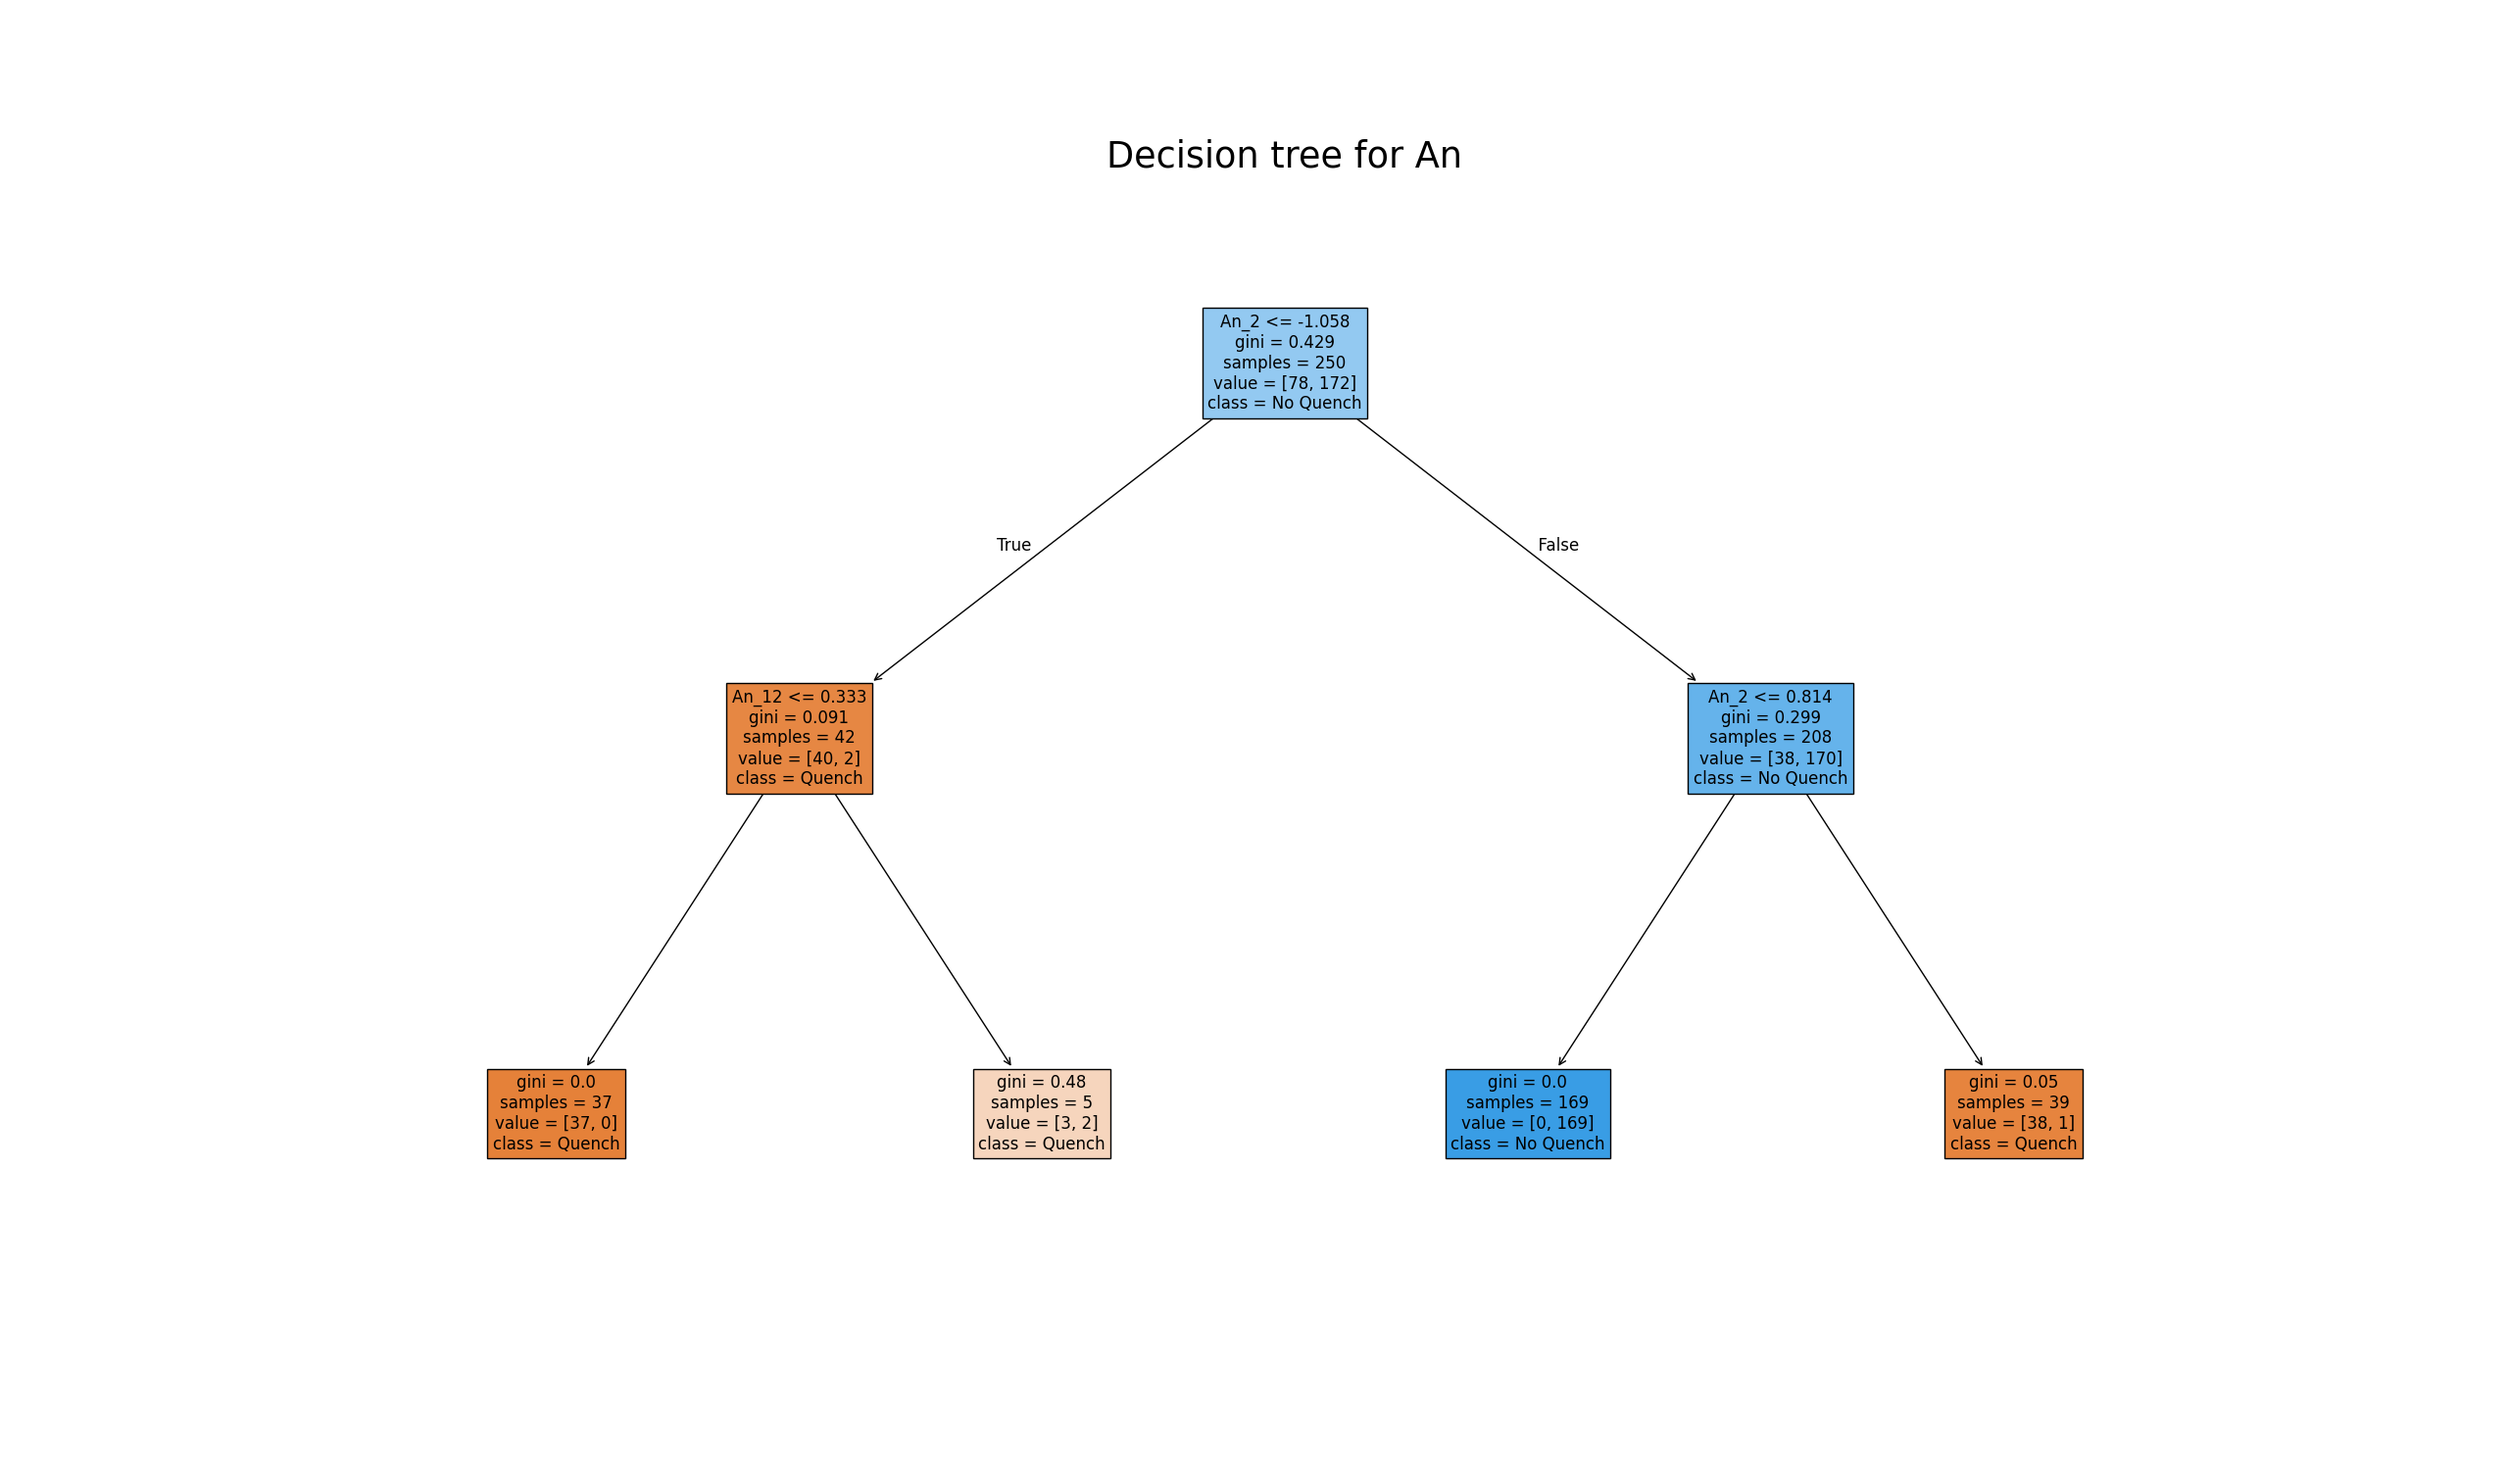
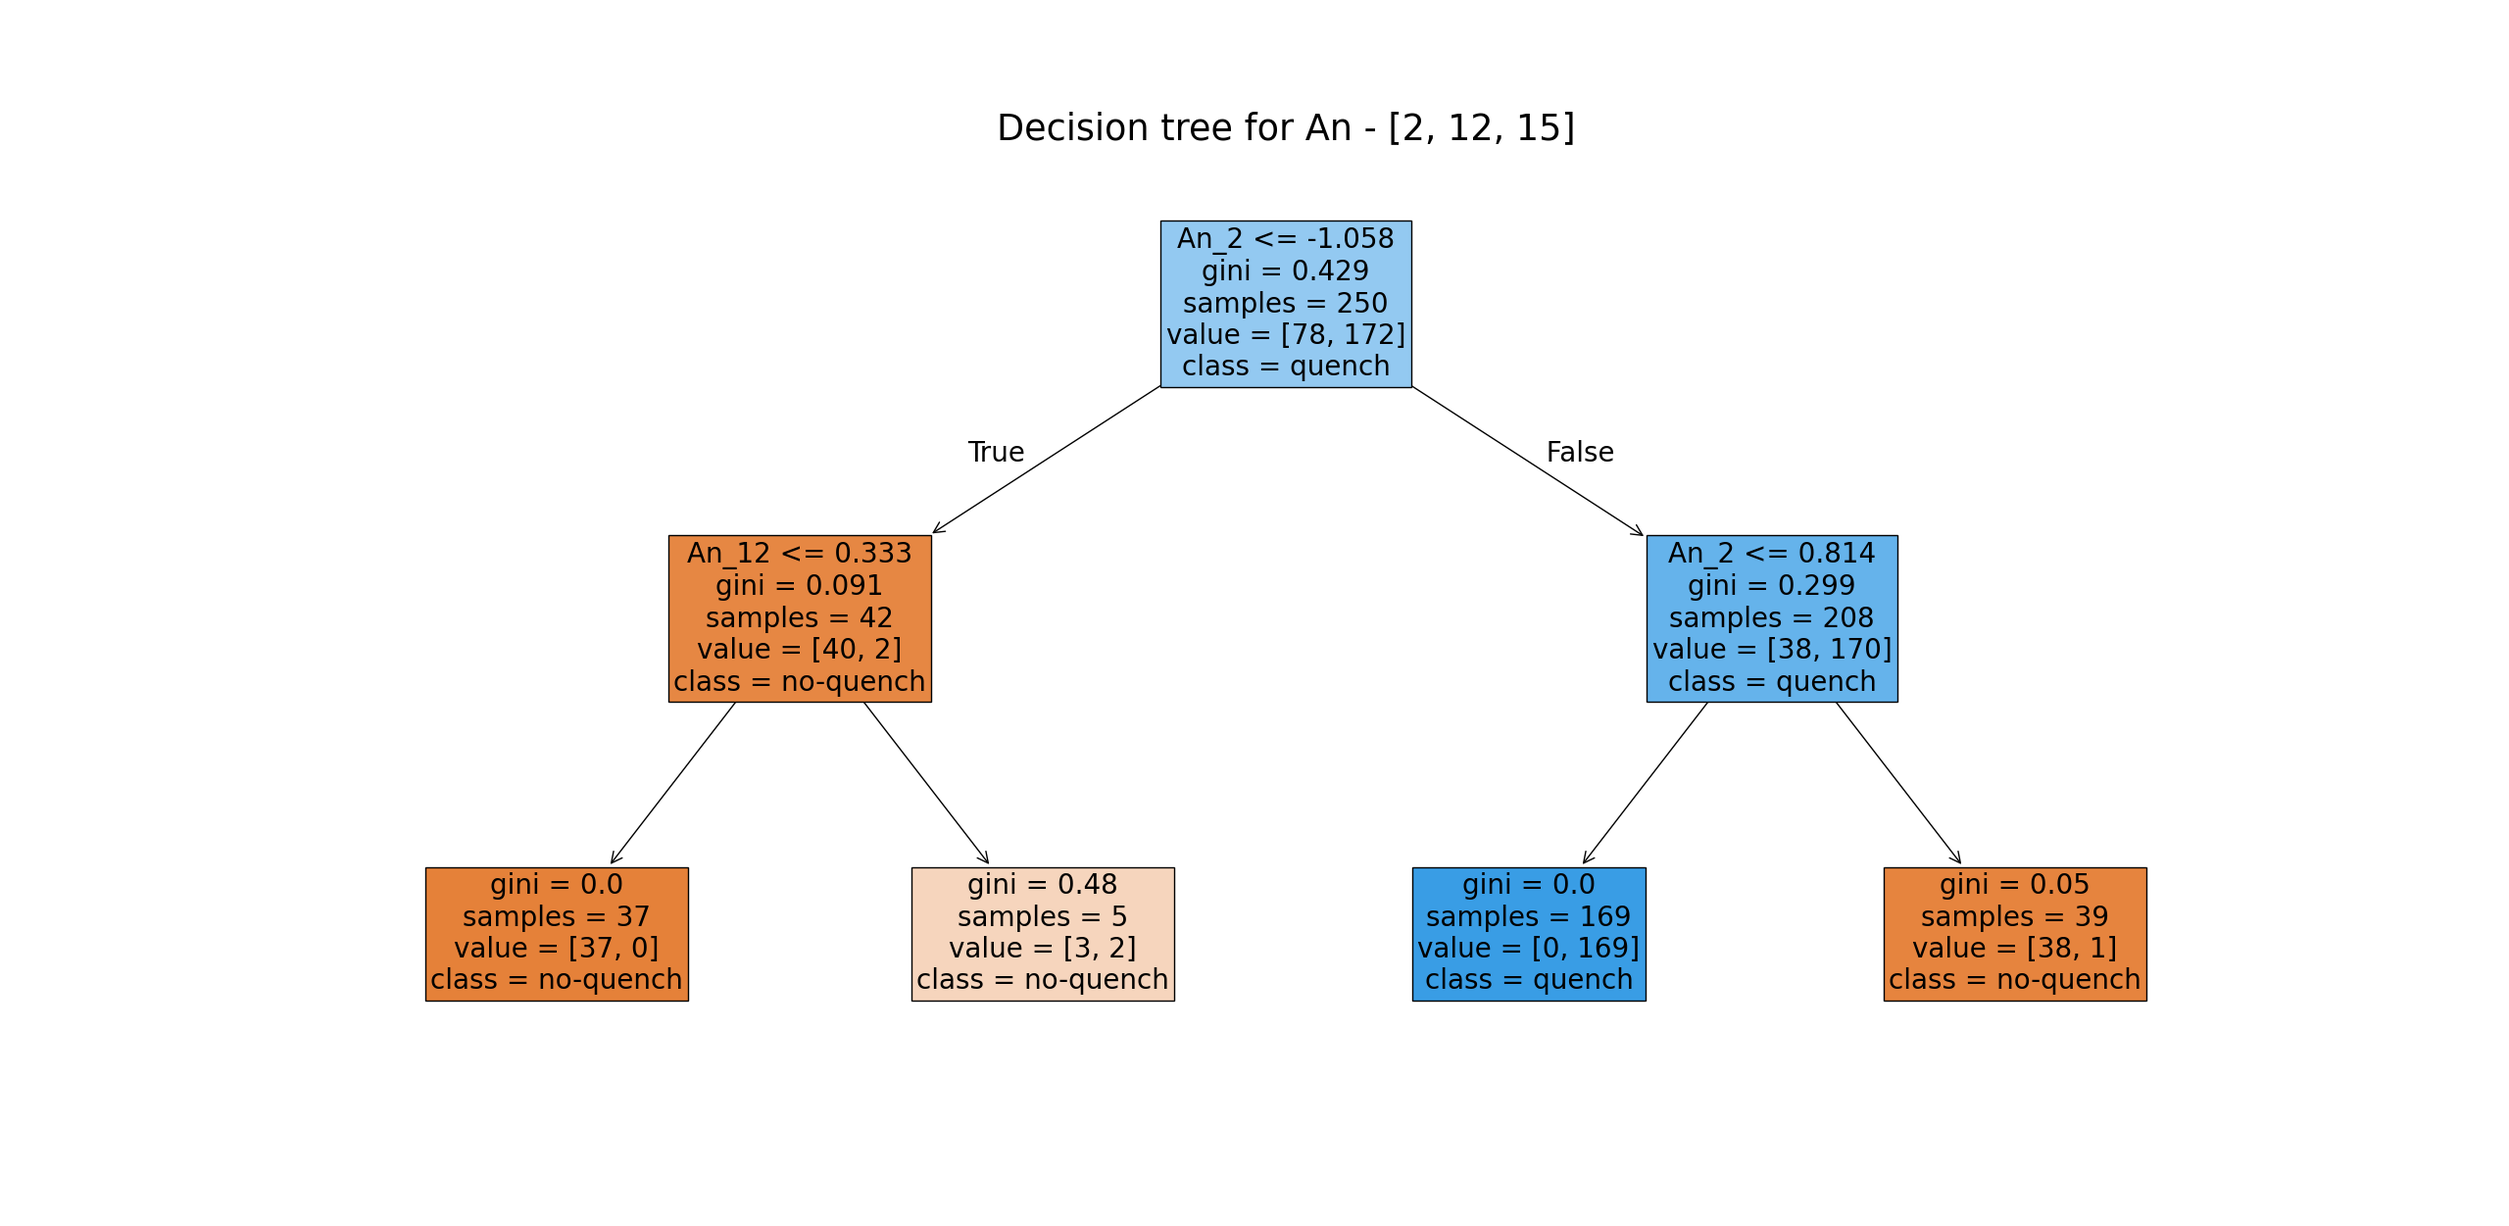
Changed the image for the decision tree as well as teh QRP chapter

diff --git a/src/qrp.tex b/src/qrp.tex
@@ -46,7 +46,7 @@ the main diagonal) that contain repeated information, e.g., harmonic number $1$ 
 information as harmonic number $3, 5, 7, \ldots$.
 \begin{figure}
 	\centering
-	\includegraphics[scale=.2]{img/An_corr_matrix.png}
+	\includegraphics[width=\linewidth]{img/An_corr_matrix.png}
 	\caption{The cross-correlation of the An harmonics} \label{fig:an-corr}
 \end{figure}
 Other than us noticing that the situation is definitely complex and doing feature extraction on this
@@ -69,7 +69,7 @@ should be performing at a high level.
 
 \begin{figure}
 	\centering
-	\includegraphics[scale=.2]{img/An_label_corr.png}
+	\includegraphics[width=\linewidth]{img/An_label_corr.png}
 	\caption{Label correlation for the An table} \label{fig:an-lcorr}
 \end{figure}
 
@@ -96,7 +96,7 @@ $15$ dimensions to be able to plot them we use a dimensionality reduction techni
 $\textsc{pca}$ (Principal Component Analysis).
 \begin{figure}[h!]
 	\centering
-	\includegraphics[scale=.2]{img/An_distribution.png}
+	\includegraphics[width=\linewidth]{img/An_distribution.png}
 	\caption{Data distribution for the An table after applying $\textsc{pca}$ dimensionality
 		reduction} \label{fig:an-dist}
 \end{figure}
@@ -113,7 +113,7 @@ portion of the data, and this difficulty will be reflected in the performance of
 will be introduced in this chapter.
 \begin{figure}[h!]
 	\centering
-	\includegraphics[scale=.2]{img/Bn_distribution.png}
+	\includegraphics[width=\linewidth]{img/Bn_distribution.png}
 	\caption{Data distribution for the Bn table after applying $\textsc{pca}$ dimensionality
 		reduction} \label{fig:bn-dist}
 \end{figure}
@@ -122,7 +122,7 @@ As we did for An we check the cross-correlation of the Bn table, and the results
 similar.
 \begin{figure}[h!]
 	\centering
-	\includegraphics[scale=.2]{img/Bn_corr_matrix.png}
+	\includegraphics[width=\linewidth]{img/Bn_corr_matrix.png}
 	\caption{The cross-correlation of the Bn harmonics} \label{fig:bn-corr}
 \end{figure}
 Possibly the biggest difference between \Cref{fig:an-corr} and \Cref{fig:bn-corr}, apart from the
@@ -135,7 +135,7 @@ harmonic have a good enough correlation with the solution, but despite this, the
 models built on Bn suffered.
 \begin{figure}
 	\centering
-	\includegraphics[scale=.2]{img/Bn_label_corr.png}
+	\includegraphics[width=\linewidth]{img/Bn_label_corr.png}
 	\caption{Label correlation for the Bn table} \label{fig:bn-lcorr}
 \end{figure}
 
@@ -150,7 +150,7 @@ sections, it consistently falls short of the An table, and that is most likely d
 introduction of the information carried by Bn.
 \begin{figure}[h!]
 	\centering
-	\includegraphics[scale=.2]{img/Cnmod_corr_matrix.png}
+	\includegraphics[width=\linewidth]{img/Cnmod_corr_matrix.png}
 	\caption{The cross-correlation of the Cnmod harmonics} \label{fig:cnmod-corr}
 \end{figure}
 
@@ -164,7 +164,7 @@ If we check the correlation between the harmonics and the labels \Cref{fig:cnmod
 that the first harmonics explain really well the expected results.
 \begin{figure}[h!]
 	\centering
-	\includegraphics[scale=.2]{img/Cnmod_label_corr.png}
+	\includegraphics[width=\linewidth]{img/Cnmod_label_corr.png}
 	\caption{Label correlation for the Cnmod table} \label{fig:cnmod-lcorr}
 \end{figure}
 
@@ -184,7 +184,7 @@ Before considering the last table let us stop once again to check the distributi
 dimensionality reduction for Cnmod.
 \begin{figure}[h!]
 	\centering
-	\includegraphics[scale=.2]{img/Cnmod_distribution.png}
+	\includegraphics[width=\linewidth]{img/Cnmod_distribution.png}
 	\caption{Data distribution for the Cnmod table after applying $\textsc{pca}$ dimensionality
 		reduction} \label{fig:cnmod-dist}
 \end{figure}
@@ -201,7 +201,7 @@ the samples, this can be seen quite clearly in \Cref{fig:phi-dist}.
 
 \begin{figure}[h!]
 	\centering
-	\includegraphics[scale=.2]{img/Phi_distribution.png}
+	\includegraphics[width=\linewidth]{img/Phi_distribution.png}
 	\caption{Data distribution for the Phi table after applying $\textsc{pca}$ dimensionality
 		reduction} \label{fig:phi-dist}
 \end{figure}
@@ -214,7 +214,7 @@ each other is kept to a minimum. No real structure can be seen in this table as 
 and Bn.
 \begin{figure}[h!]
 	\centering
-	\includegraphics[scale=.2]{img/Phi_corr_matrix.png}
+	\includegraphics[width=\linewidth]{img/Phi_corr_matrix.png}
 	\caption{The cross-correlation of the Phi harmonics} \label{fig:phi-corr}
 \end{figure}
 This structure leaves us with much more freedom as to which harmonics to pick to build datasets
@@ -225,7 +225,7 @@ with its multiples.
 Lastly, we can analyze the correlation between the harmonics and the label. As we can see in \Cref{fig:phi-lcorr} most of the harmonics have a good correlation with the expected solution, especially harmonic number $2$ and its odd multiples, and harmonics number $1$ and $12$.
 \begin{figure}[h!]
 	\centering
-	\includegraphics[scale=.2]{img/Phi_label_corr.png}
+	\includegraphics[width=\linewidth]{img/Phi_label_corr.png}
 	\caption{Label correlation for the Phi table} \label{fig:phi-lcorr}
 \end{figure}
 This closes the brief exposition about the preprocessing steps for the various labels, now we will
@@ -252,7 +252,7 @@ capable of explaining whether a sample is 'quench' or 'non quench' by using a ve
 harmonics (only three are necessary).
 \begin{figure}
 	\centering
-	\includegraphics[scale=.2]{img/An_2_12_15_cm_dt.png}
+	\includegraphics[width=\linewidth]{img/An_2_12_15_cm_dt.png}
 	\caption{The performance for the An model built on harmonics $2, 12, 15$} \label{fig:dt-an-2-12-15-perf}
 \end{figure}
 If we look at \Cref{fig:dt-an-2-12-15-pt}, we can see that the structure of the tree is also
@@ -260,7 +260,7 @@ extremely simple, contained in depth, using mostly harmonic number $2$ to perfor
 having only one node where the impurity is not zero.
 \begin{figure}
 	\centering
-	\includegraphics[scale=.15]{img/An_2_12_15_pt_dt.png}
+	\includegraphics[width=\linewidth]{img/An_2_12_15_pt_dt.png}
 	\caption{The structure of the tree built on harmonics $2, 12, 15$} \label{fig:dt-an-2-12-15-pt}
 \end{figure}
 
